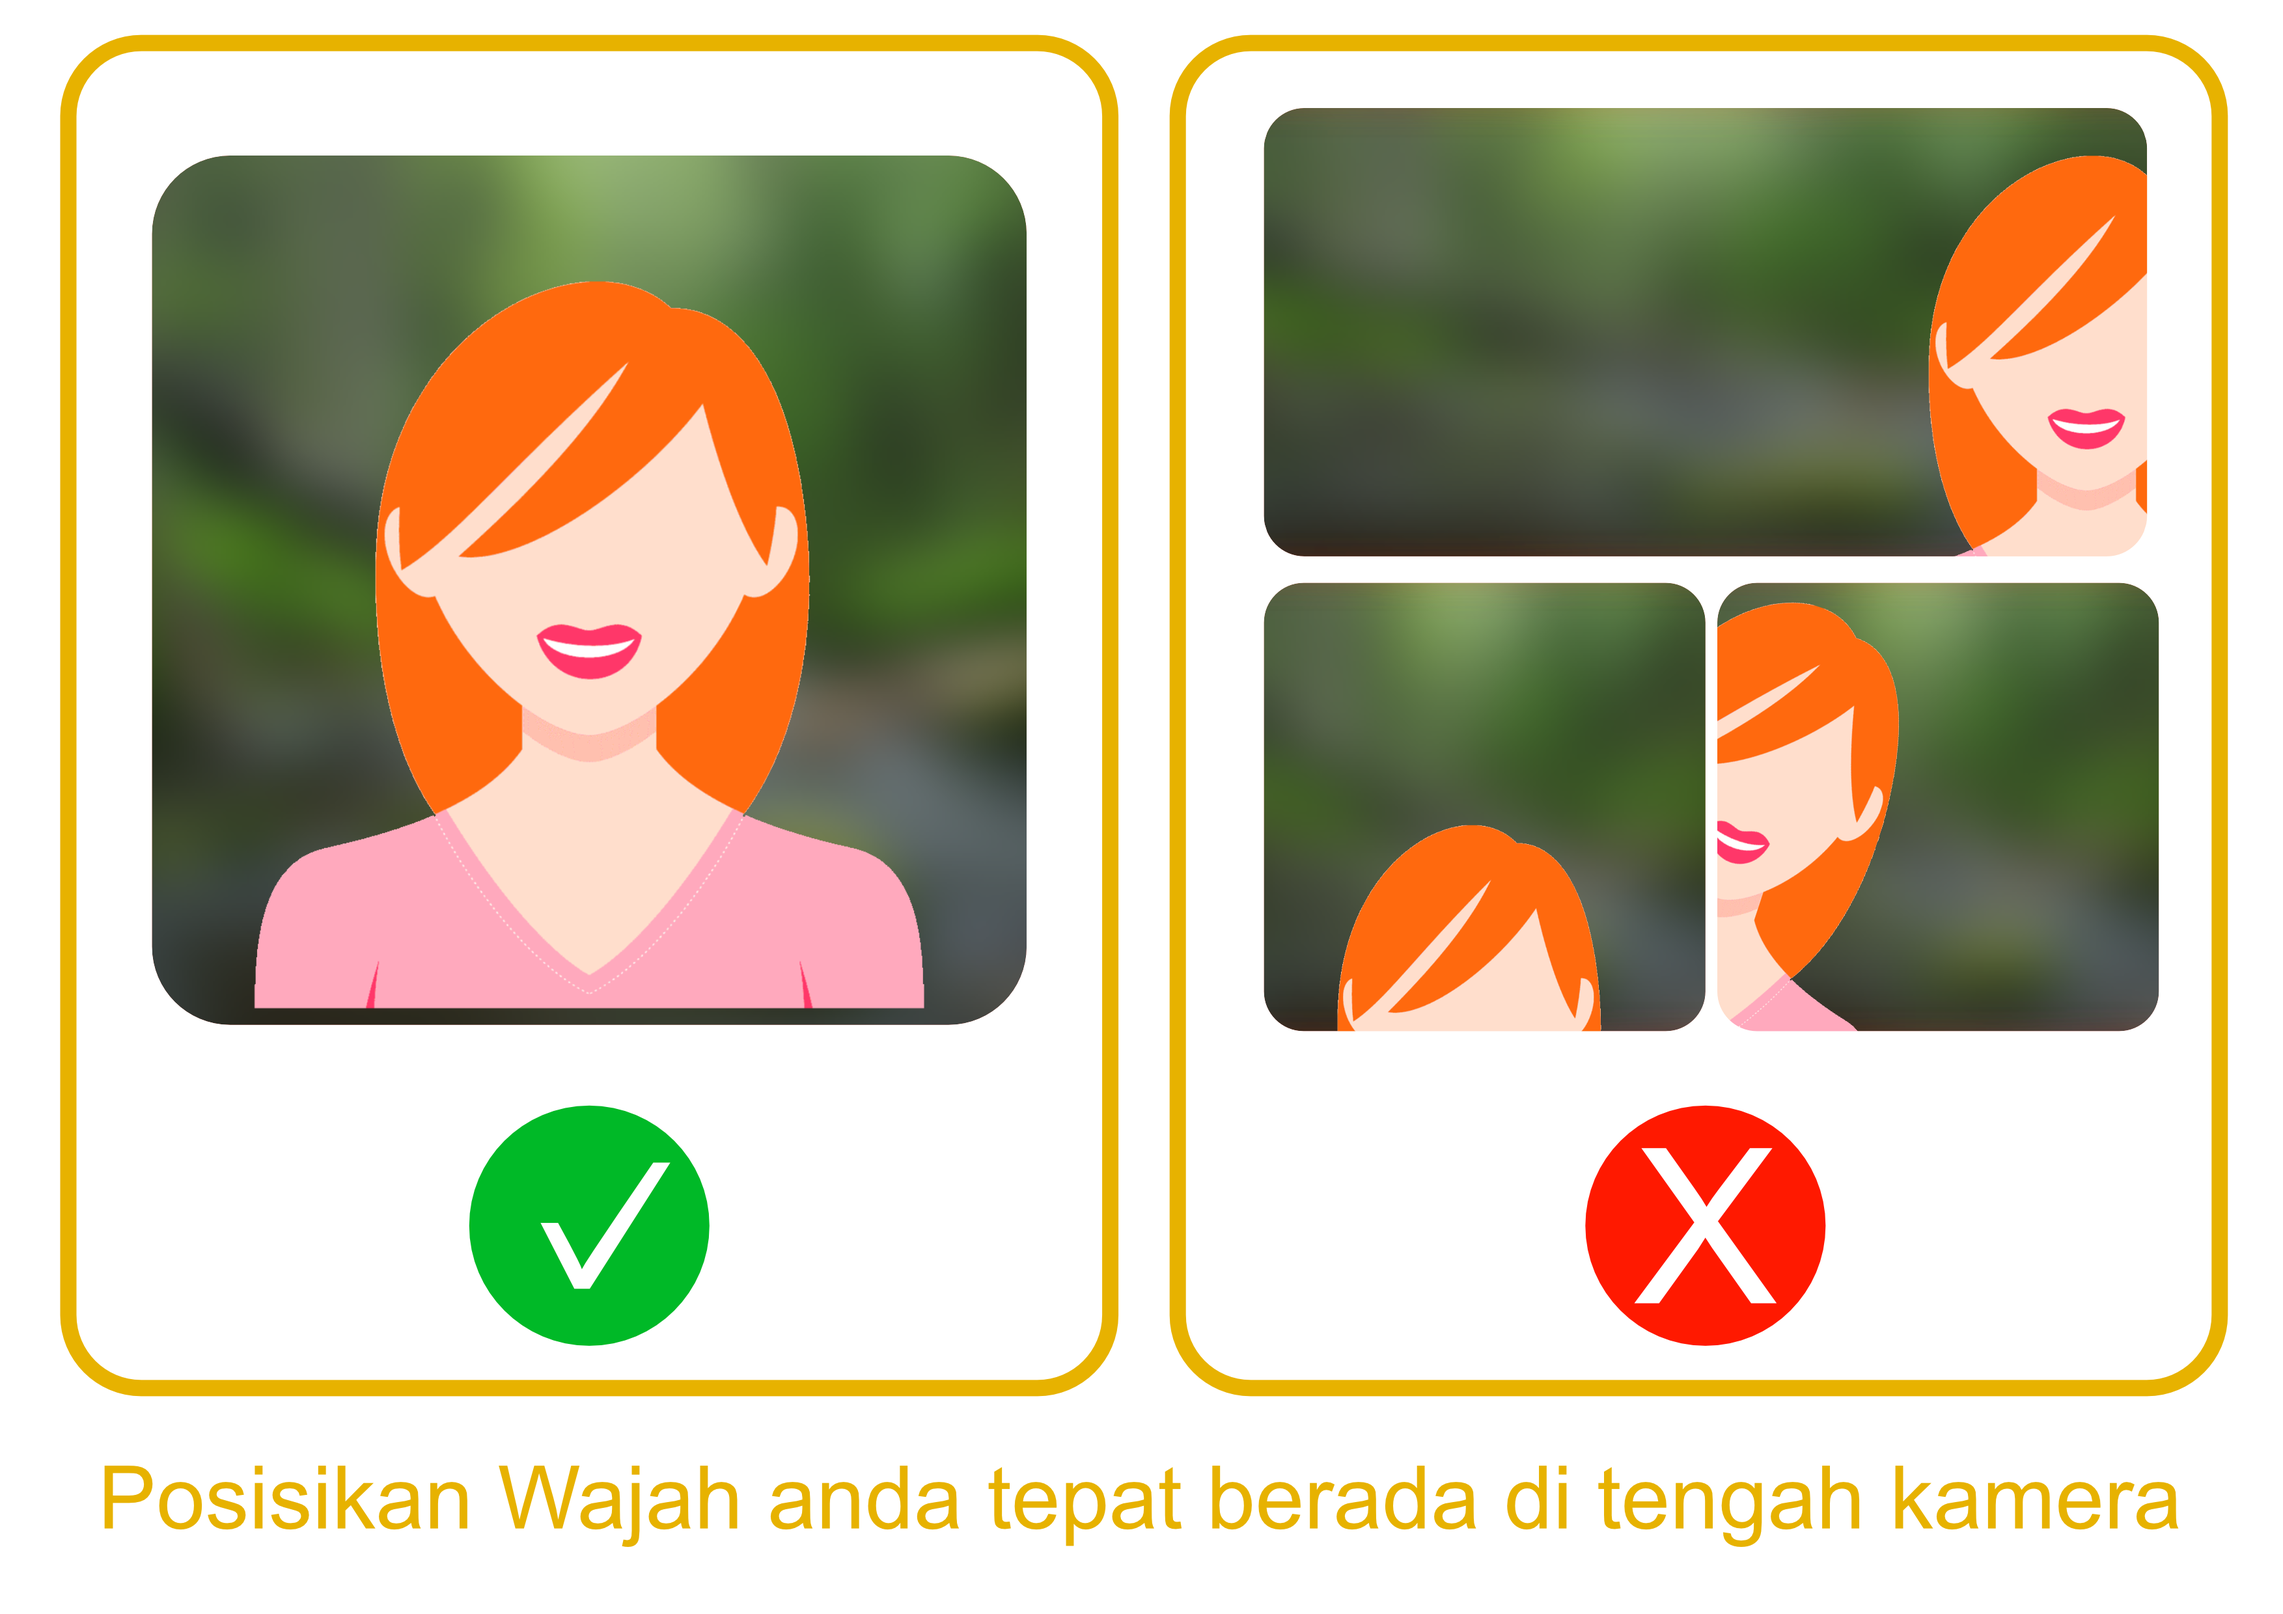
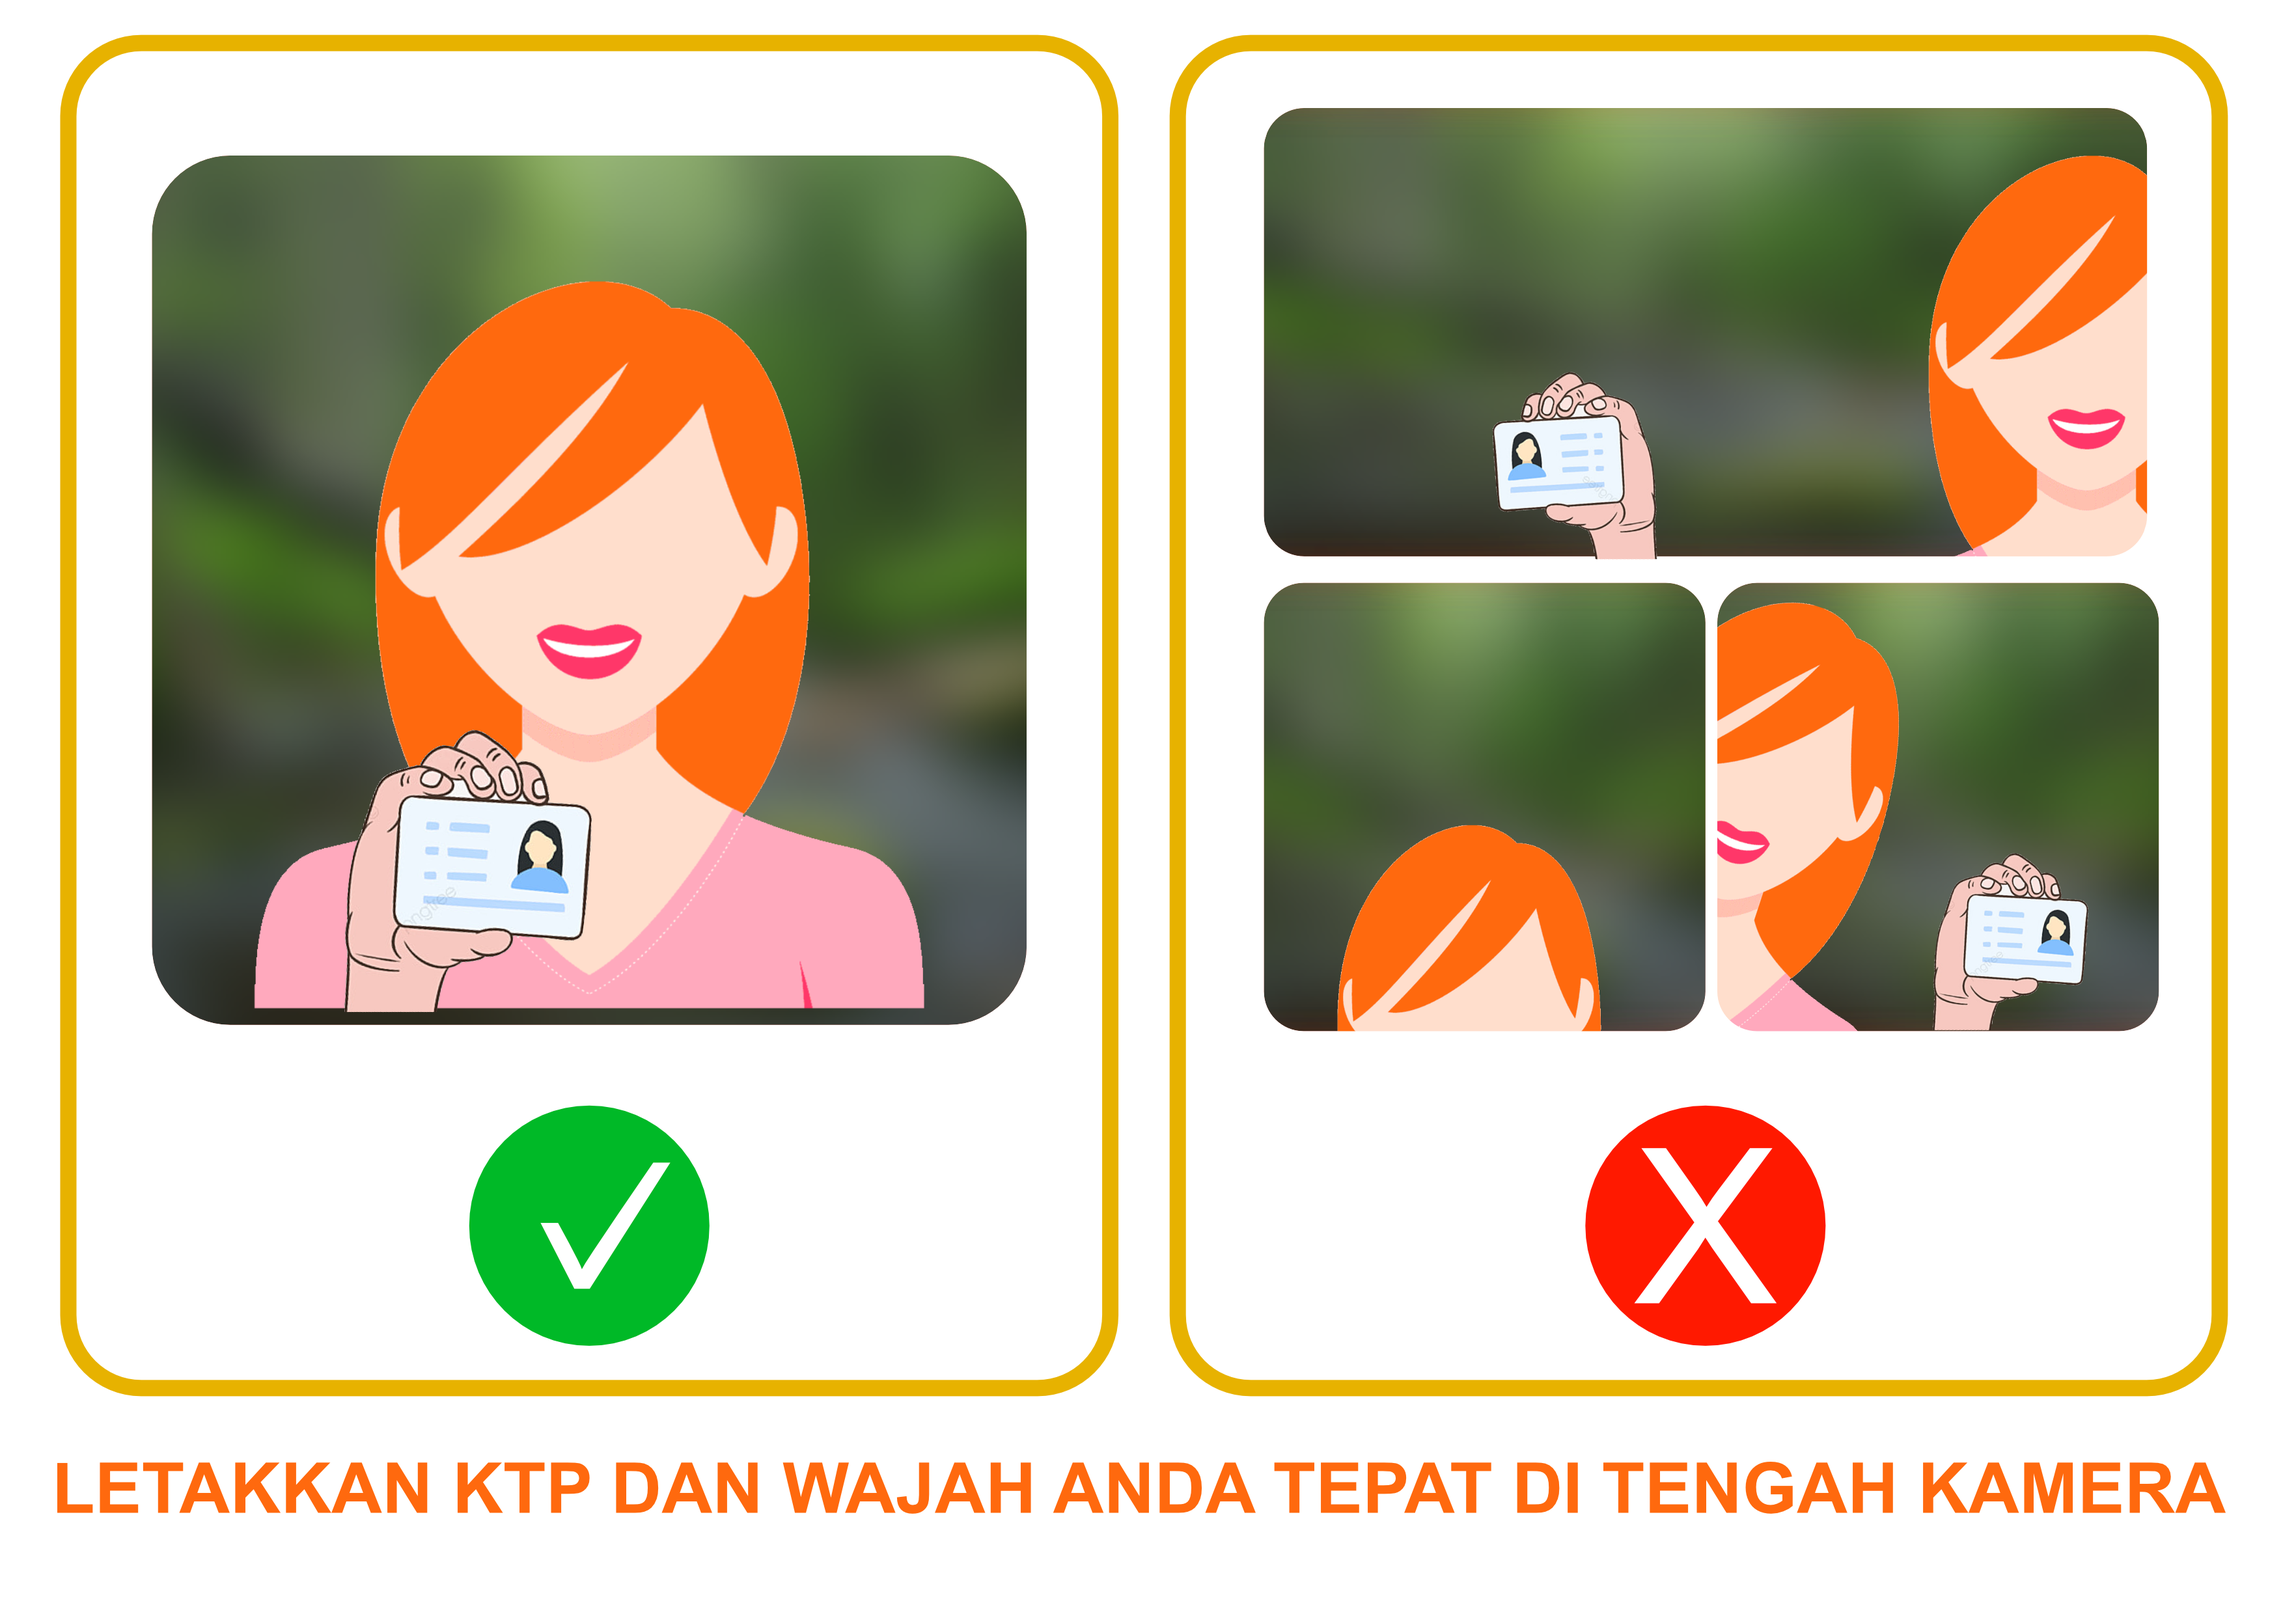
update foto

diff --git a/resources/views/pages/pengajuan.blade.php b/resources/views/pages/pengajuan.blade.php
@@ -57,7 +57,7 @@
                 </div>
                 <div class="card-body">
                     <div class="mb-3 text-center">
-                        <label class="text-danger">Silahkan foto wajah dengan jelas</label><br>
+                        <label class="text-danger">Silahkan foto wajah dan KTP dengan jelas</label><br>
                         <img src="{{ asset('img/tutor.png') }}" style="height: 300px"><br>
                         <video id="video" width="400" height="300" autoplay></video><br>
                         <div id="resultContainer" class="text-center" style="display: none;">
